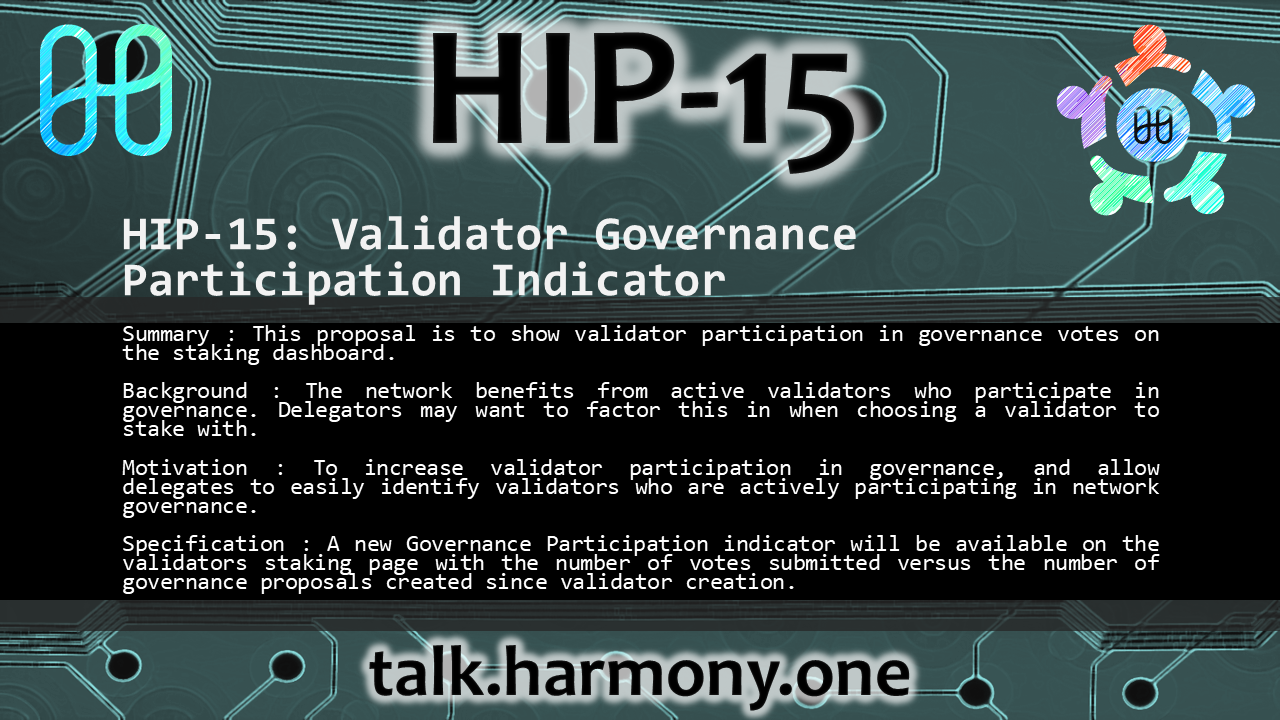
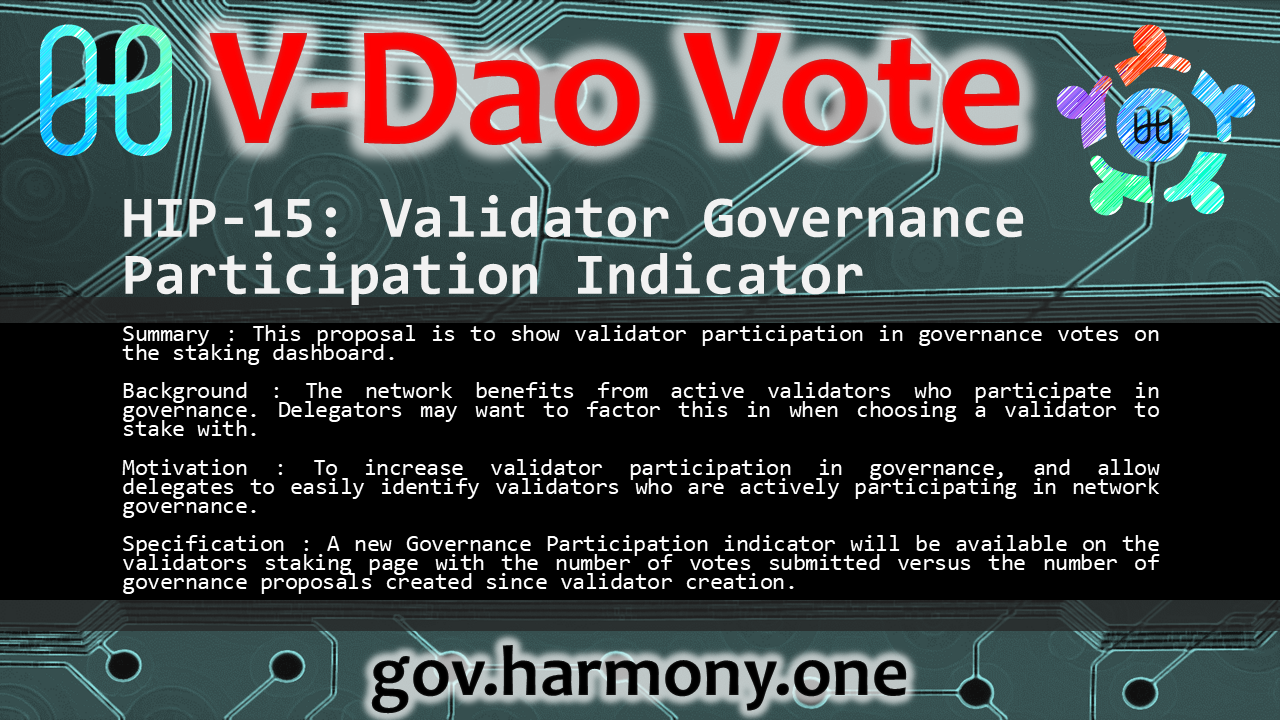
[ADD] HIP15 Vote

Changed region(s): [[0.0938, 0.0, 1.0, 0.4278], [0.2812, 0.8861, 0.7188, 1.0]]

diff --git a/connection.py b/connection.py
@@ -10,7 +10,7 @@ twitter_user = "1400948665859051520"  # DAO
 
 twitter_api = twitter.Api(
     consumer_key=APIKey,
-    consumer_secret=APISecretKey,
+    consumer_secret=APISecretKey, 
     access_token_key=AccessTokenKey,
     access_token_secret=AccessTokenSecret,
     tweet_mode="extended",

diff --git a/includes/tweet_locations.py b/includes/tweet_locations.py
@@ -48,7 +48,7 @@ tweet_data = {
 
 # tweet_data = {
 
-#     join(tweets_dir, "election", "call_for_candidates.txt"): join(media_dir, "election", "call_for_candidates.png"),
+#     join(tweets_dir, "hip", "hip15.txt"): join(media_dir, "HIP", "HIP15.png"),
 
 #    }
 
